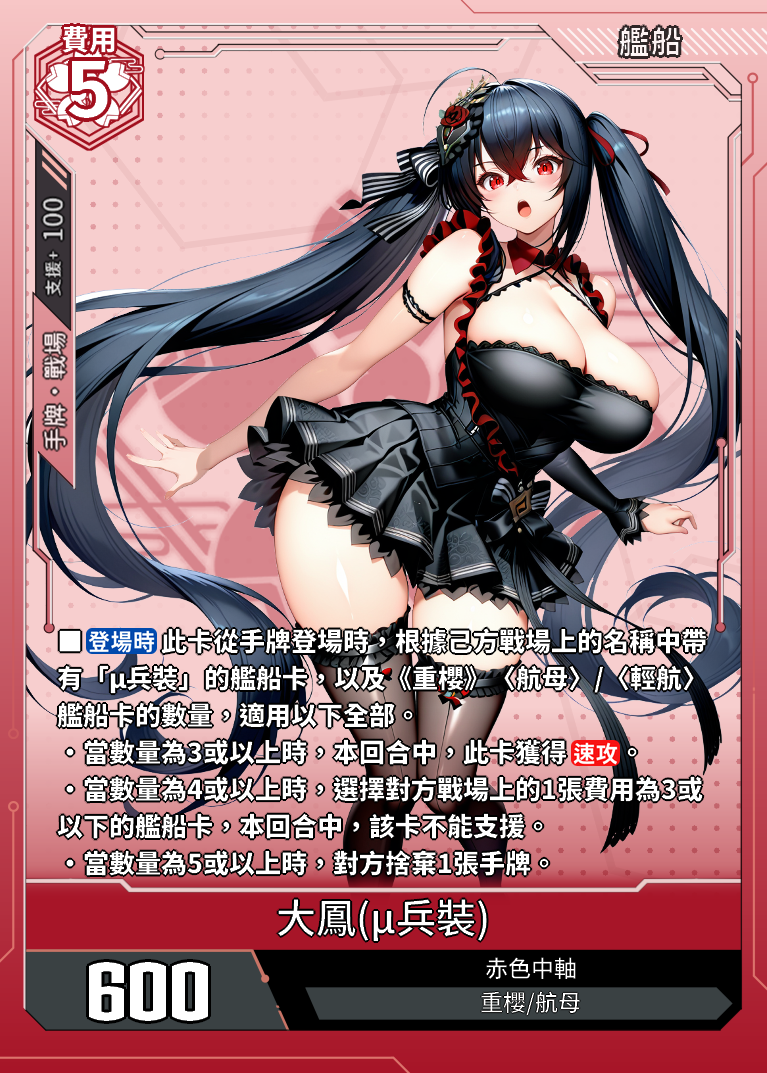
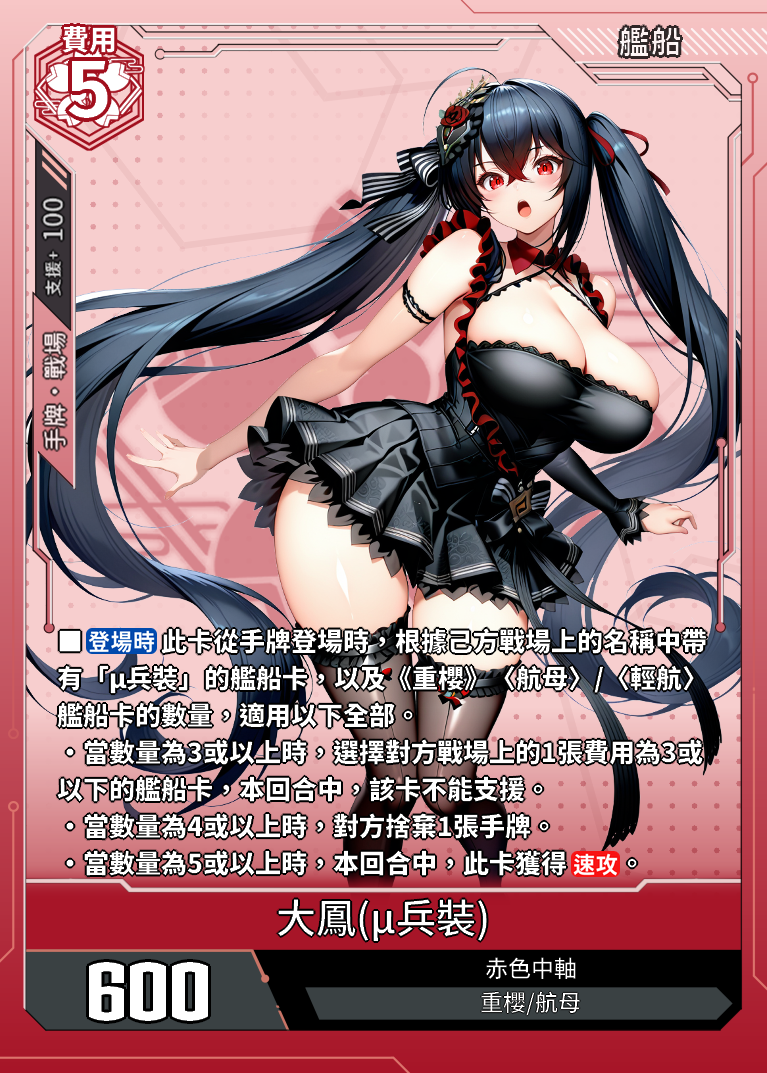
修大鳳u

Changed region(s): [[0.06, 0.6766, 0.9296, 0.8304]]

diff --git a/data.js b/data.js
@@ -23994,7 +23994,7 @@ const cards = [
             "支援範圍": "手牌·戰場",
             "支援值": "100"
         },
-        "card_effect": "■【登場時】此卡從手牌登場時，根據己方戰場上的名稱中帶有「μ兵裝」的艦船卡，以及《重櫻》〈航母〉/〈輕航〉艦船卡的數量，適用以下全部。・當數量為3或以上時，本回合中，此卡獲得【速攻】。・當數量為4或以上時，選擇對方戰場上的1張費用為3或以下的艦船卡，本回合中，該卡不能支援。・當數量為5或以上時，對方捨棄1張手牌。",
+        "card_effect": "■【登場時】此卡從手牌登場時，根據己方戰場上的名稱中帶有「μ兵裝」的艦船卡，以及《重櫻》〈航母〉/〈輕航〉艦船卡的數量，適用以下全部。・當數量為3或以上時，選擇對方戰場上的1張費用為3或以下的艦船卡，本回合中，該卡不能支援。・當數量為4或以上時，對方捨棄1張手牌。。・當數量為5或以上時，本回合中，此卡獲得【速攻】",
         "acquisition_method": "CE02-早期測試"
     },
 	{
